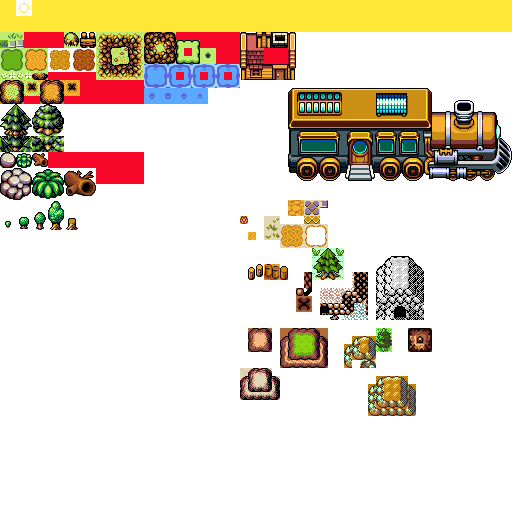
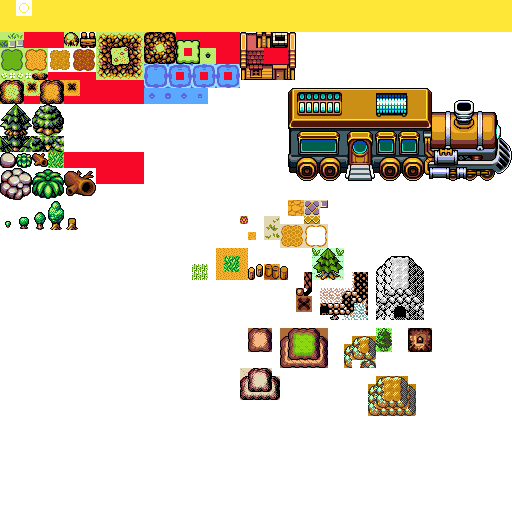
harvestable grass

Changed region(s): [[0.375, 0.4688, 0.5, 0.5625], [0.0938, 0.2812, 0.125, 0.3438]]

diff --git a/datafiles/tiles.tsx b/datafiles/tiles.tsx
@@ -83,4 +83,8 @@
  <tile id="1216" type="rock_small"/>
  <tile id="1218" type="bush_small"/>
  <tile id="1220" type="wood_small"/>
+ <tile id="1222" type="grass"/>
+ <tile id="1223" type="grass"/>
+ <tile id="1286" type="grass"/>
+ <tile id="1287" type="grass"/>
 </tileset>
